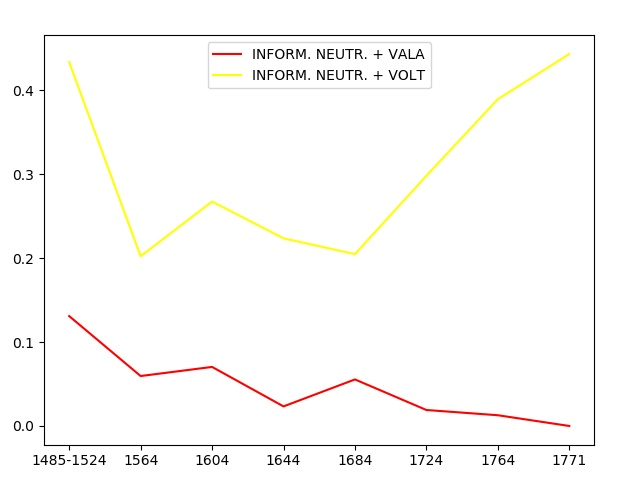
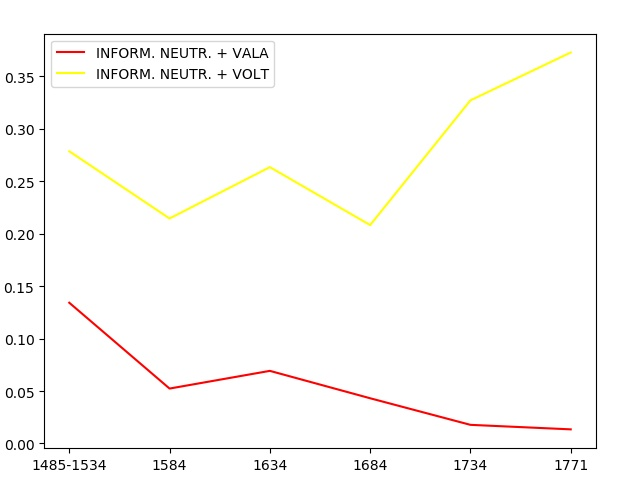
[cos] vala/volt diagrammokat 50 eves bontas alapjan hoztam letre

diff --git a/scripts/create_plot.py b/scripts/create_plot.py
@@ -1,8 +1,10 @@
 #! /usr/bin/env python3
 import matplotlib.pyplot as plt
-from glob import glob
 import argparse
-import os
+import sys
+sys.path.append('../')
+from scripts.common import str2bool
+
 
 LINES = {'inform.':
              {'perf.':
@@ -33,7 +35,7 @@ def read(inp):
             yield f.read()
 
 
-def split_years(freq_ls, c=1):
+def split_years(freq_ls, is_mixed, c):
     count = 0
     sum_pfreq = 0
     sum_all_freq = 0
@@ -65,7 +67,7 @@ def get_plot(freq_ls, txt_type, line_name):
     plt.plot(years, freq, label=line_name.upper(), color=line_type[0], linestyle=line_type[1])
 
 
-def process(inp, interval):
+def process(inp, interval, is_mixed):
     for i, fl in enumerate(inp):
         freq_ls = []
         fl = fl.split('\n')
@@ -76,7 +78,7 @@ def process(inp, interval):
                 continue
             line = line.split('\t')
             freq_ls.append((line[0], line[1], line[2]))
-        freq_ls = split_years(freq_ls, interval)
+        freq_ls = split_years(freq_ls, is_mixed, interval)
         get_plot(freq_ls, past_type, '{} {} + {}'.format(past_type[0], past_type[1], past_type[2]))
     plt.legend()
     plt.show()
@@ -85,18 +87,20 @@ def process(inp, interval):
 def get_args():
     parser = argparse.ArgumentParser()
     parser.add_argument('filepath', help='Path to file', nargs='+')
-    parser.add_argument('-i', '--interval', help='Split timeline rate', nargs='?', default=40, type=int)
+    parser.add_argument('-i', '--interval', help='Split timeline rate', nargs='?', default=50, type=int)
+    parser.add_argument('-m', '--is_mixed', help='If to create plot from inform. and form. text type', nargs='?',
+                        type=str2bool, const=True, default=False)
 
     args = parser.parse_args()
 
-    return {'files': args.filepath, 'interval': args.interval}
+    return {'files': args.filepath, 'interval': args.interval, 'is_mixed': args.is_mixed}
 
 
 def main():
     args = get_args()
 
     inp = read(args['files'])
-    process(inp, args['interval'])
+    process(inp, args['interval'], args['is_mixed'])
 
 
 if __name__ == '__main__':

diff --git a/scripts/get_form.py b/scripts/get_form.py
@@ -4,7 +4,6 @@ from glob import glob
 import re
 from collections import defaultdict
 import argparse
-import os
 import sys
 from string import punctuation as puncts
 sys.path.append('../')

diff --git a/scripts/get_inform.py b/scripts/get_inform.py
@@ -3,7 +3,6 @@ from glob import glob
 import re
 from collections import defaultdict
 import argparse
-import os
 import sys
 sys.path.append('../')
 import scripts.common as c
